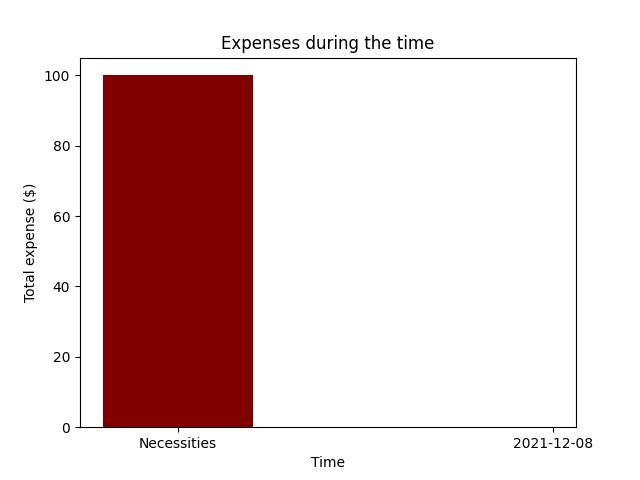
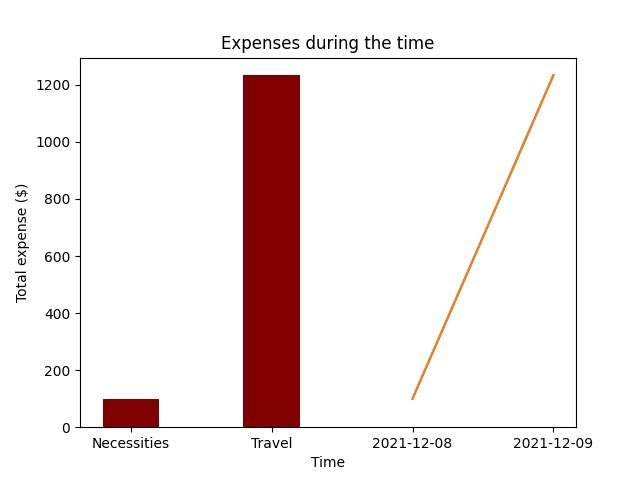
.

diff --git a/templates/graph.html b/templates/graph.html
@@ -39,7 +39,7 @@
   
       <h1>Results</h1>
       <p>Your expenses are as follow:</p>
-      <img src="output1.jpg"></img>
-      <img src="output2.jpg"></img>
+      <img src="TeamprojectOIM3640-02/output1.jpg"></img>
+      <img src="TeamprojectOIM3640-02/output2.jpg"></img>
     </body>
   </html> 

diff --git a/graphing.py b/graphing.py
@@ -41,11 +41,11 @@ def time_plot(expenses):
     plt.savefig("output2.jpg")
 
 
-# data = pull_table("expenses")
+data = pull_table("expenses")
 # # print(data)
-# filtered_data = filt(data)
+filtered_data = filt(data)
 # # print(filtered_data)
-# processed_data = convert_dict(filtered_data)
+processed_data = convert_dict(filtered_data)
 # # print(processed_data)
-# bar_graph(processed_data)
-# time_plot(data)
+bar_graph(processed_data)
+time_plot(data)
